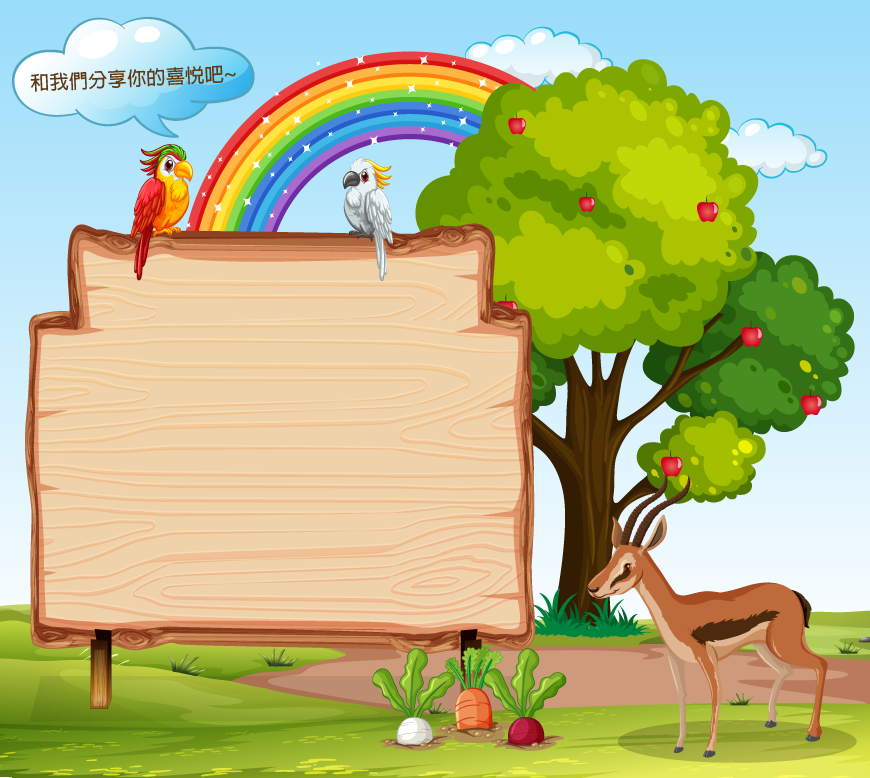
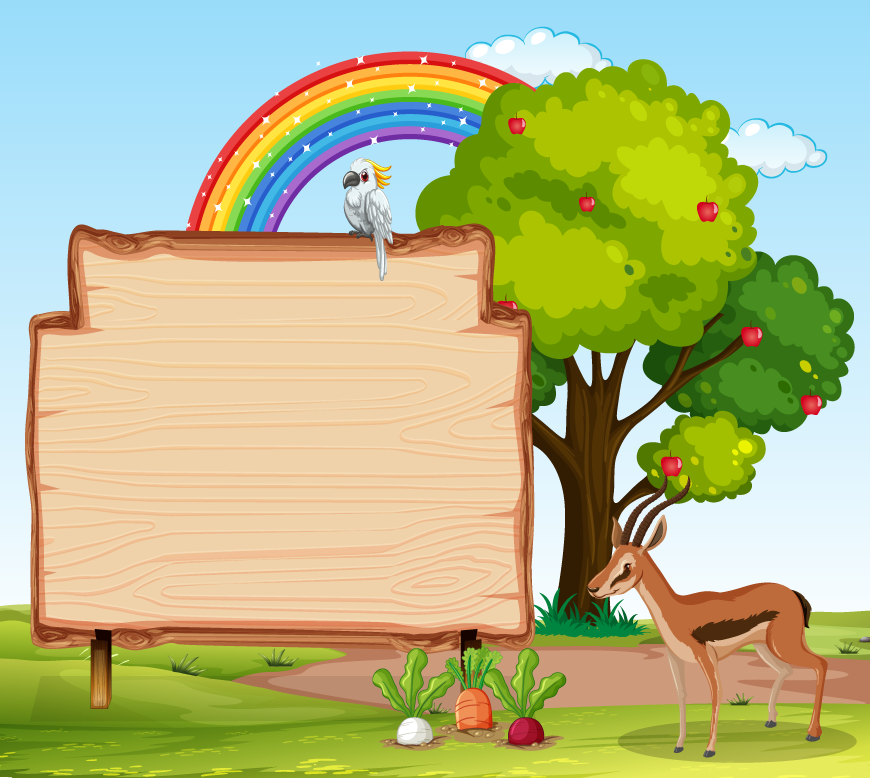
style: update post layout animated

Changed region(s): [[0.0, 0.0, 0.3103, 0.3702]]

diff --git a/src/components/ModalWorry.js b/src/components/ModalWorry.js
@@ -2,11 +2,47 @@
 /* eslint-disable react/prop-types */
 import React, { useRef, useEffect, useCallback } from 'react';
 import { useSpring, animated } from 'react-spring';
-import styled from 'styled-components';
+import styled, { keyframes } from 'styled-components/macro';
 import { MdClose } from 'react-icons/md';
 import Swal from 'sweetalert2';
 import firebaseStores from '../firebase';
-import BgImg from './worryBoard.png';
+import BgImg from './worryBoard2.png';
+import groundhog from './groundhog.png';
+import deer from './deer.png';
+
+const deerAnimated = keyframes`
+0%   { transform: translate(100px, -50px);}
+100% {transform: translate(0, 0px); opacity: 1;}
+`;
+
+const Deer = styled.img`
+  width: 40%;
+  height: auto;
+  position: absolute;
+  bottom: 00px;
+  left: 460px;
+  z-index:1;
+  opacity: 0;
+  animation: ${deerAnimated} 1.5s ease 1s alternate 1 forwards;
+
+`;
+
+const groundhogAnimated = keyframes`
+0%   { transform: translate(0, 10px);opacity: 1;}
+100% {transform: translate(0, 0px); opacity: 1;}
+`;
+
+const Groundhog = styled.img`
+  width: 10%;
+  height: auto;
+  position: absolute;
+  bottom: 10px;
+  left: 60px;
+  z-index:-40;
+  opacity: 0;
+  animation: ${groundhogAnimated} 0.3s ease 3s alternate 8 forwards;
+
+`;
 
 const Background = styled.div`
   width: 100vw;
@@ -22,7 +58,7 @@ const Background = styled.div`
 `;
 
 const ModalWrapper = styled.div`
-  width: 800px;
+  width: 755px;
   height: 700px;
   display: flex;
   justify-content: center;
@@ -58,7 +94,7 @@ const ModalContent = styled.div`
     font-size:1.3rem;
     position:relative;
     top: 30px;
-    left:-35px;
+    left:-20px;
   }
   textarea {
     margin-bottom: 1rem;
@@ -68,7 +104,7 @@ const ModalContent = styled.div`
     border-radius: 10px;
     position:relative;
     top: 30px;
-    left:-35px;
+    left:-20px;
   }
   button {
     padding: 10px 24px;
@@ -79,7 +115,7 @@ const ModalContent = styled.div`
     border-radius: 10px;
     position:relative;
     top: 15px;
-    left:290px;
+    left:285px;
     cursor: pointer;
   }
 `;
@@ -138,7 +174,8 @@ export default function WorryModal({
         <Background onClick={closeModal} ref={modalRef}>
           <animated.div style={animation}>
             <ModalWrapper showWorryModal={showWorryModal}>
-              {/* <ModalImg src={require('./modal.jpg')} alt="camera" /> */}
+              <Groundhog src={groundhog} alt="groundhog" />
+              <Deer src={deer} alt="deer" />
               <ModalContent>
                 <input type="text" placeholder="標題" ref={refTitle} />
                 <textarea placeholder="把壞心情寫出來吧，我會保守秘密" ref={refContent} />

diff --git a/src/components/Modal.js b/src/components/Modal.js
@@ -2,11 +2,13 @@
 /* eslint-disable react/prop-types */
 import React, { useRef, useEffect, useCallback } from 'react';
 import { useSpring, animated } from 'react-spring';
-import styled from 'styled-components';
+import styled, { keyframes } from 'styled-components';
 import { MdClose } from 'react-icons/md';
 import Swal from 'sweetalert2';
 import firebaseStores from '../firebase';
 import BgImg from './happyBoard.png';
+import bird from './bird.png';
+import sharehappy from './sharehappy.png';
 
 const Background = styled.div`
   width: 100vw;
@@ -37,12 +39,37 @@ const ModalWrapper = styled.div`
   border-radius: 10px;
 `;
 
-// const ModalImg = styled.img`
-//   width: 100%;
-//   height: 100%;
-//   border-radius: 10px 0 0 10px;
-//   background: #000;
-// `;
+const birdanimated = keyframes`
+0%   { transform: translate(0, 0px);}
+100% {transform: translate(0, -25px);}
+`;
+
+const Bird = styled.img`
+  width: 8%;
+  height: auto;
+  position: absolute;
+  top: 130px;
+  left: 100px;
+  z-index:-39;
+  animation: ${birdanimated} 0.5s ease-out 1s alternate 8;
+`;
+
+const shareHappyAnimated = keyframes`
+0%   { transform: translate(0, 0px) scale(0.7);}
+100% {transform: translate(0, 0px) scale(1);opacity: 1;}
+`;
+
+const ShareHappy = styled.img`
+  width: 25%;
+  height: auto;
+  position: absolute;
+  top: 20px;
+  left: 10px;
+  z-index:-40;
+  opacity: 0;
+  animation: ${shareHappyAnimated} 2s ease 3s alternate infinite;
+
+`;
 
 const ModalContent = styled.div`
   display: flex;
@@ -145,7 +172,8 @@ export default function Modal({
         <Background onClick={closeModal} ref={modalRef}>
           <animated.div style={animation}>
             <ModalWrapper showModal={showModal}>
-              {/* <ModalImg src={require('./modal.jpg')} alt="camera" /> */}
+              <Bird src={bird} alt="bird" />
+              <ShareHappy src={sharehappy} alt="sharehappybubble" />
               <ModalContent>
                 <input type="text" placeholder="標題" ref={refTitle} />
                 <textarea placeholder="心情內容" ref={refContent} />

diff --git a/src/pages/home/index.js b/src/pages/home/index.js
@@ -106,7 +106,7 @@ z-index:-50;
 `;
 
 const zebra = keyframes`
-    0%   {transform: rotate(10deg);}
+  0%   {transform: rotate(10deg);}
   70% {transform: rotate(0deg);}
   100% {transform: rotate(0deg);}
 `;
